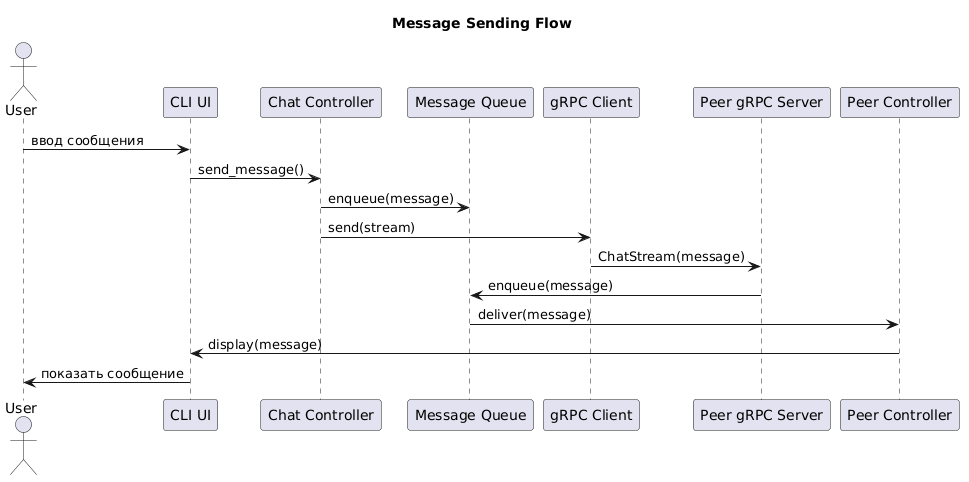
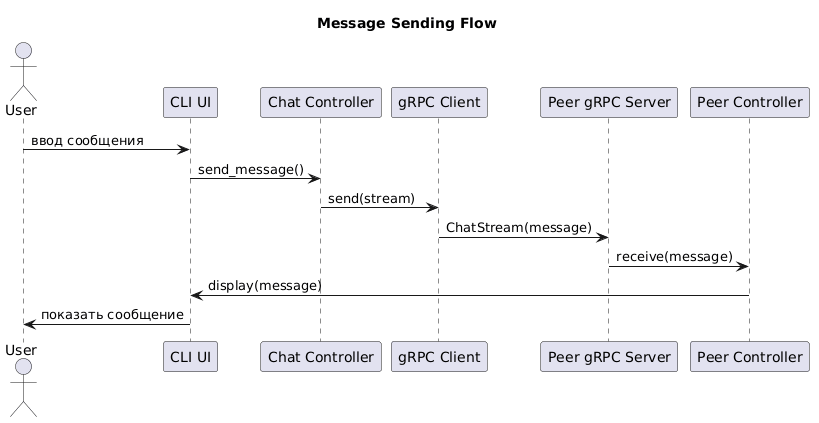
docs: fix docs

Changed region(s): [[0.0, 0.461, 1.0, 0.9835], [0.0, 0.0922, 1.0, 0.5225], [0.3663, 0.0307, 0.6105, 0.0922]]

diff --git a/README.md b/README.md
@@ -1,6 +1,9 @@
 # SD_XP
 
-Цель: реализовать консольный peer-to-peer чат, где каждый узел может выступать одновременно как клиент и сервер.
+## Команда
+
+
+Консольный peer-to-peer чат, где каждый узел может выступать одновременно как клиент и сервер.
 
 Основные свойства:
 * peer-to-peer

diff --git a/docs/arch.md b/docs/arch.md
@@ -18,9 +18,6 @@
 ### gRPC Server
 * Принимает входящие сообщения
 * Обрабатывает stream
-### Message Queue
-* Буферизация сообщений
-* Разделение потоков
 
 
 ## Диаграмма последовательности